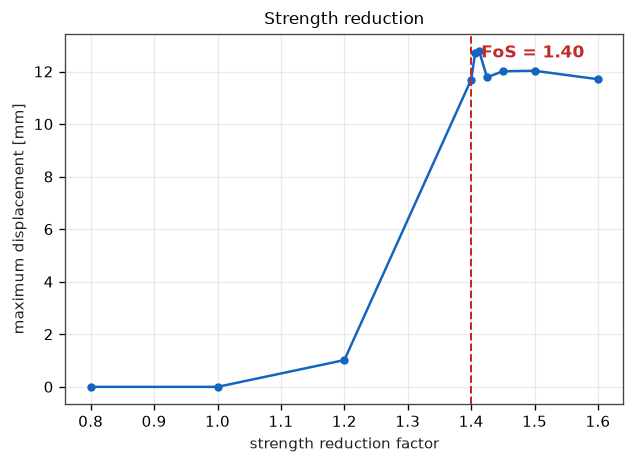
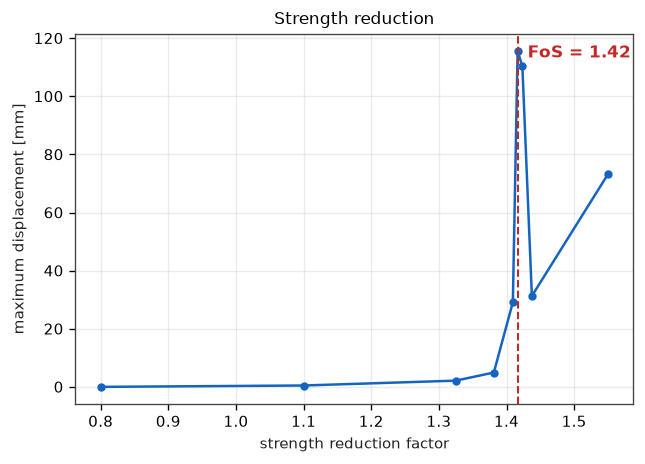
Stop refinement running away at a sharp corner in the geometry
Where two boundary lines meet at a sharp angle - the toe of a slope, the
shoulder of an embankment - Ruppert refinement splits the two segments
against each other without end. The slope example was carrying elements of
2e-14 m2 in a 250 m2 domain, an aspect ratio of 1e14, which contributes
nothing but a ruinous condition number.

The mesher now refuses to split a subsegment below a fraction of the target
element size, treats a triangle whose encroached segments are all at that
limit as being as good as the input geometry permits, and drops slivers of
negligible area on the way out. Worst aspect ratios across the four examples
fall from 1e9 to between 12 and 25000, with the residue confined to corners
whose angle the input geometry itself imposes - no mesher can beat that.

The embankment example was also wrong, and in a way the solver was right to
struggle with: six metres of fill at 20 kN/m3 puts 120 kPa on clay with an
undrained bearing capacity of (2 + pi) x 18 = 93 kPa, so the embankment as
specified could not stand. With a realistic su it now settles 33, 68 and
104 mm through its three lifts.

Claude-Session: https://claude.ai/code/session_01RZDVqTdGftsWZh4LRNtVZU

diff --git a/lythos/core/mesher.py b/lythos/core/mesher.py
@@ -587,11 +587,23 @@ class Triangulation:
 
     # ------------------------------------------------------------------ output
     def interior_triangles(self):
+        """Real elements of the domain.
+
+        Slivers of negligible area are dropped.  They appear where two
+        boundary segments meet almost collinearly - a polygon with a
+        zero-width lobe, say, which is easy to draw by accident - and an
+        element of 1e-14 m2 in a domain of hundreds contributes nothing but a
+        ruinous condition number.
+        """
+        span = max(self.bbox[2] - self.bbox[0], self.bbox[3] - self.bbox[1], 1e-12)
+        floor = 1e-12 * span * span
         out = []
         for t, tri in enumerate(self.tris):
             if tri is None or self.tags[t] == EXTERIOR:
                 continue
             if any(self.is_super(v) for v in tri):
+                continue
+            if _tri_area(*[self.verts[v] for v in tri]) <= floor:
                 continue
             out.append(t)
         return out
@@ -627,12 +639,20 @@ class MeshGenerator:
     """Delaunay refinement mesher."""
 
     def __init__(self, pslg: PSLG, min_angle: float = 25.0, max_area: float | None = None,
-                 max_points: int = 200_000):
+                 max_points: int = 200_000, min_length_ratio: float = 0.05):
         self.pslg = pslg
         self.min_angle = min_angle
         self.max_area = max_area
         self.max_points = max_points
         self.quality_bound = 1.0 / (2.0 * math.sin(math.radians(min_angle)))
+        #: shortest subsegment the refinement may create, as a fraction of the
+        #: target element size.  Where two boundary lines meet at a sharp
+        #: angle - the toe of a slope, the shoulder of an embankment -
+        #: refinement otherwise splits the two segments against each other
+        #: without end, leaving elements millions of times smaller than the
+        #: rest and a stiffness matrix to match.
+        self.min_length_ratio = min_length_ratio
+        self.min_length = 0.0
 
     def run(self) -> Triangulation:
         p = self.pslg
@@ -651,10 +671,25 @@ class MeshGenerator:
         for key in T.subsegs:
             self._index_segment(T, key)
 
+        self._set_minimum_length()
         self._recover_segments(T)
         self._label_regions(T)
         self._refine(T)
         return T
+
+    def _set_minimum_length(self) -> None:
+        """Smallest subsegment the mesher may create."""
+        areas = [a for (_tag, _outline, a) in self.pslg.polygons if a and a > 0]
+        areas += [a for (_x, _y, _tag, a) in self.pslg.regions if a and a > 0]
+        if self.max_area and self.max_area > 0:
+            areas.append(self.max_area)
+        if areas:
+            target = math.sqrt(2.0 * min(areas))
+        else:
+            xs = [p[0] for p in self.pslg.points]
+            ys = [p[1] for p in self.pslg.points]
+            target = max(max(xs) - min(xs), max(ys) - min(ys), 1.0) / 40.0
+        self.min_length = self.min_length_ratio * target
 
     # --------------------------------------------------------------- segments
     def _index_segment(self, T, key):
@@ -671,9 +706,16 @@ class MeshGenerator:
             self.grid.remove(sid)
             self._sid_key.pop(sid, None)
 
-    def _split_segment(self, T, key) -> int:
-        """Split a subsegment at its midpoint and insert the new vertex."""
+    def _split_segment(self, T, key, limit: bool = True):
+        """Split a subsegment at its midpoint and insert the new vertex.
+
+        Returns the new vertex, or None when the subsegment is already at the
+        shortest length refinement is allowed to create.
+        """
         i, j = key
+        if limit and self.min_length > 0.0:
+            if math.dist(T.verts[i], T.verts[j]) < self.min_length:
+                return None
         marker = T.subsegs.pop(key)
         self._drop_segment(key)
         a, b = T.verts[i], T.verts[j]
@@ -711,7 +753,7 @@ class MeshGenerator:
             todo = [k for k in T.subsegs if k not in edges]
             for key in todo:
                 if key in T.subsegs:
-                    self._split_segment(T, key)
+                    self._split_segment(T, key, limit=False)
             pending = []
             for key in list(T.subsegs):
                 a, b = T.verts[key[0]], T.verts[key[1]]
@@ -721,10 +763,13 @@ class MeshGenerator:
                     if _encroached(a, b, v):
                         pending.append(key)
                         break
+            split_any = False
             for key in pending:
-                if key in T.subsegs:
-                    self._split_segment(T, key)
-            if not todo and not pending:
+                if key in T.subsegs and self._split_segment(T, key) is not None:
+                    split_any = True
+            if not todo and not split_any:
+                # Either nothing was encroached, or what was is already as
+                # short as the input geometry allows.
                 return
 
     # ---------------------------------------------------------------- regions
@@ -836,9 +881,15 @@ class MeshGenerator:
                 continue
             keys = self._encroached_by(T, cc)
             if keys:
+                split_any = False
                 for key in keys:
-                    if key in T.subsegs:
-                        self._split_segment(T, key)
+                    if key in T.subsegs and self._split_segment(T, key) is not None:
+                        split_any = True
+                if not split_any:
+                    # Every encroached segment is already as short as it is
+                    # allowed to get: this triangle is as good as the input
+                    # geometry permits.
+                    continue
                 queue.append(t)
                 queue.extend(range(max(0, len(T.tris) - 12), len(T.tris)))
                 continue

diff --git a/lythos/examples.py b/lythos/examples.py
@@ -29,7 +29,7 @@ def slope() -> Model:
     """
     soil = MohrCoulomb(name="silty clay", E=1.0e5, nu=0.3, c=10.0, phi=20.0, psi=0.0,
                        gamma=20.0, gamma_sat=21.0, color="#b9a878")
-    outline = [(0, 0), (40, 0), (40, 10), (25, 10), (5, 0)]
+    outline = [(5, 0), (40, 0), (40, 10), (25, 10)]
     return Model(
         name="cut slope factor of safety",
         layers=[SoilLayer("silty clay", outline, soil, mesh_size=2.0)],
@@ -46,13 +46,20 @@ def slope() -> Model:
 def embankment() -> Model:
     """A road embankment raised in three lifts over soft clay.
 
-    Staged filling on a soft foundation is the case where construction
-    sequence matters most: each lift consolidates nothing here, so the
-    analysis shows the undrained response and the stability that goes with it.
+    Staged filling on a soft foundation is the case where the construction
+    sequence matters most.  There is no consolidation here, so every lift is
+    carried by the undrained strength the clay already has - the conservative
+    reading, and the one that decides whether the next lift can go on.
+
+    Six metres of fill at 20 kN/m3 puts about 120 kPa on the clay against an
+    undrained bearing capacity of roughly (2 + pi) su = 165 kPa, so the
+    embankment stands at full height with something in hand.  Drop su much
+    below 25 kPa and it will not: the analysis then reports that no
+    equilibrium exists for the last lift, which is the right answer.
     """
-    soft = MohrCoulomb(name="soft clay", E=4.0e3, nu=0.35, c=18.0, phi=0.0, psi=0.0,
-                       gamma=16.0, gamma_sat=16.5, K0=0.9, color="#9aa7a0")
-    stiff = MohrCoulomb(name="stiff clay", E=3.0e4, nu=0.3, c=45.0, phi=0.0, psi=0.0,
+    soft = MohrCoulomb(name="soft clay", E=8.0e3, nu=0.35, c=32.0, phi=0.0, psi=0.0,
+                       gamma=16.5, gamma_sat=17.0, K0=0.9, color="#9aa7a0")
+    stiff = MohrCoulomb(name="stiff clay", E=3.0e4, nu=0.3, c=75.0, phi=0.0, psi=0.0,
                         gamma=19.0, gamma_sat=19.5, K0=0.8, color="#7d8a83")
     fill = MohrCoulomb(name="granular fill", E=3.0e4, nu=0.3, c=1.0, phi=34.0, psi=4.0,
                        gamma=20.0, gamma_sat=21.0, color="#d2b48c")

diff --git a/tests/test_mesher.py b/tests/test_mesher.py
@@ -123,3 +123,35 @@ def test_smaller_target_size_gives_more_elements():
         p.polygons.append((0, outline, 0.5 * size * size))
         counts.append(build_mesh(_mesh(p)).n_elements)
     assert counts[0] < counts[1] < counts[2]
+
+
+def test_a_sharp_input_corner_does_not_produce_degenerate_elements():
+    """Two lines meeting at a sharp angle must not send refinement runaway.
+
+    Ruppert refinement splits the two segments at such a corner against each
+    other without end unless the splitting is bounded, leaving elements many
+    orders of magnitude smaller than the rest and a stiffness matrix to match.
+    """
+    p = PSLG()
+    # a wedge: the two long edges meet at about 18 degrees
+    outline = [(0, 0), (60, 0), (40, 6.5)]
+    p.add_polyline(outline, marker=1, closed=True)
+    p.polygons.append((0, outline, 2.0))
+    mesh = build_mesh(_mesh(p))
+    areas = mesh.element_areas()
+    assert areas.sum() == pytest.approx(abs(polygon_area(outline)), rel=1e-9)
+    assert areas.min() > 1e-5 * areas.max(), (areas.min(), areas.max())
+    assert areas.min() > 0
+
+
+def test_a_zero_width_lobe_is_discarded():
+    """A polygon that doubles back on itself must not leave sliver elements."""
+    p = PSLG()
+    # the run from (5, 0) back to (0, 0) is collinear with the base: no area
+    outline = [(0, 0), (40, 0), (40, 10), (25, 10), (5, 0)]
+    p.add_polyline(outline, marker=1, closed=True)
+    p.polygons.append((0, outline, 2.0))
+    mesh = build_mesh(_mesh(p))
+    areas = mesh.element_areas()
+    assert areas.sum() == pytest.approx(250.0, rel=1e-9)
+    assert areas.min() > 1e-6 * areas.max()

diff --git a/tests/test_solver.py b/tests/test_solver.py
@@ -88,17 +88,18 @@ def test_earth_pressure_at_rest_follows_k0():
 
 
 def _slope_model(mesh_size=2.5):
-    soil = MohrCoulomb(name="soil", E=1.0e5, nu=0.3, c=10.0, phi=20.0, psi=0.0, gamma=20.0)
-    outline = [(0, 0), (40, 0), (40, 10), (25, 10), (5, 0)]
-    return Model(
-        name="benchmark slope",
-        layers=[SoilLayer("soil", outline, soil, mesh_size=mesh_size)],
-        stages=[
-            Stage("initial", kind="initial", increments=10),
-            Stage("safety", kind="ssr", increments=10, srf_min=0.8, srf_max=2.5),
-        ],
-        initial_stress="gravity",
-    )
+    """The shipped slope example at a chosen element size.
+
+    Using the example itself keeps the numbers in the validation notes and the
+    numbers this test checks from drifting apart.
+    """
+    from lythos.examples import slope
+
+    model = slope()
+    model.mesh_size = mesh_size
+    for layer in model.layers:
+        layer.mesh_size = mesh_size
+    return model
 
 
 @pytest.mark.slow
